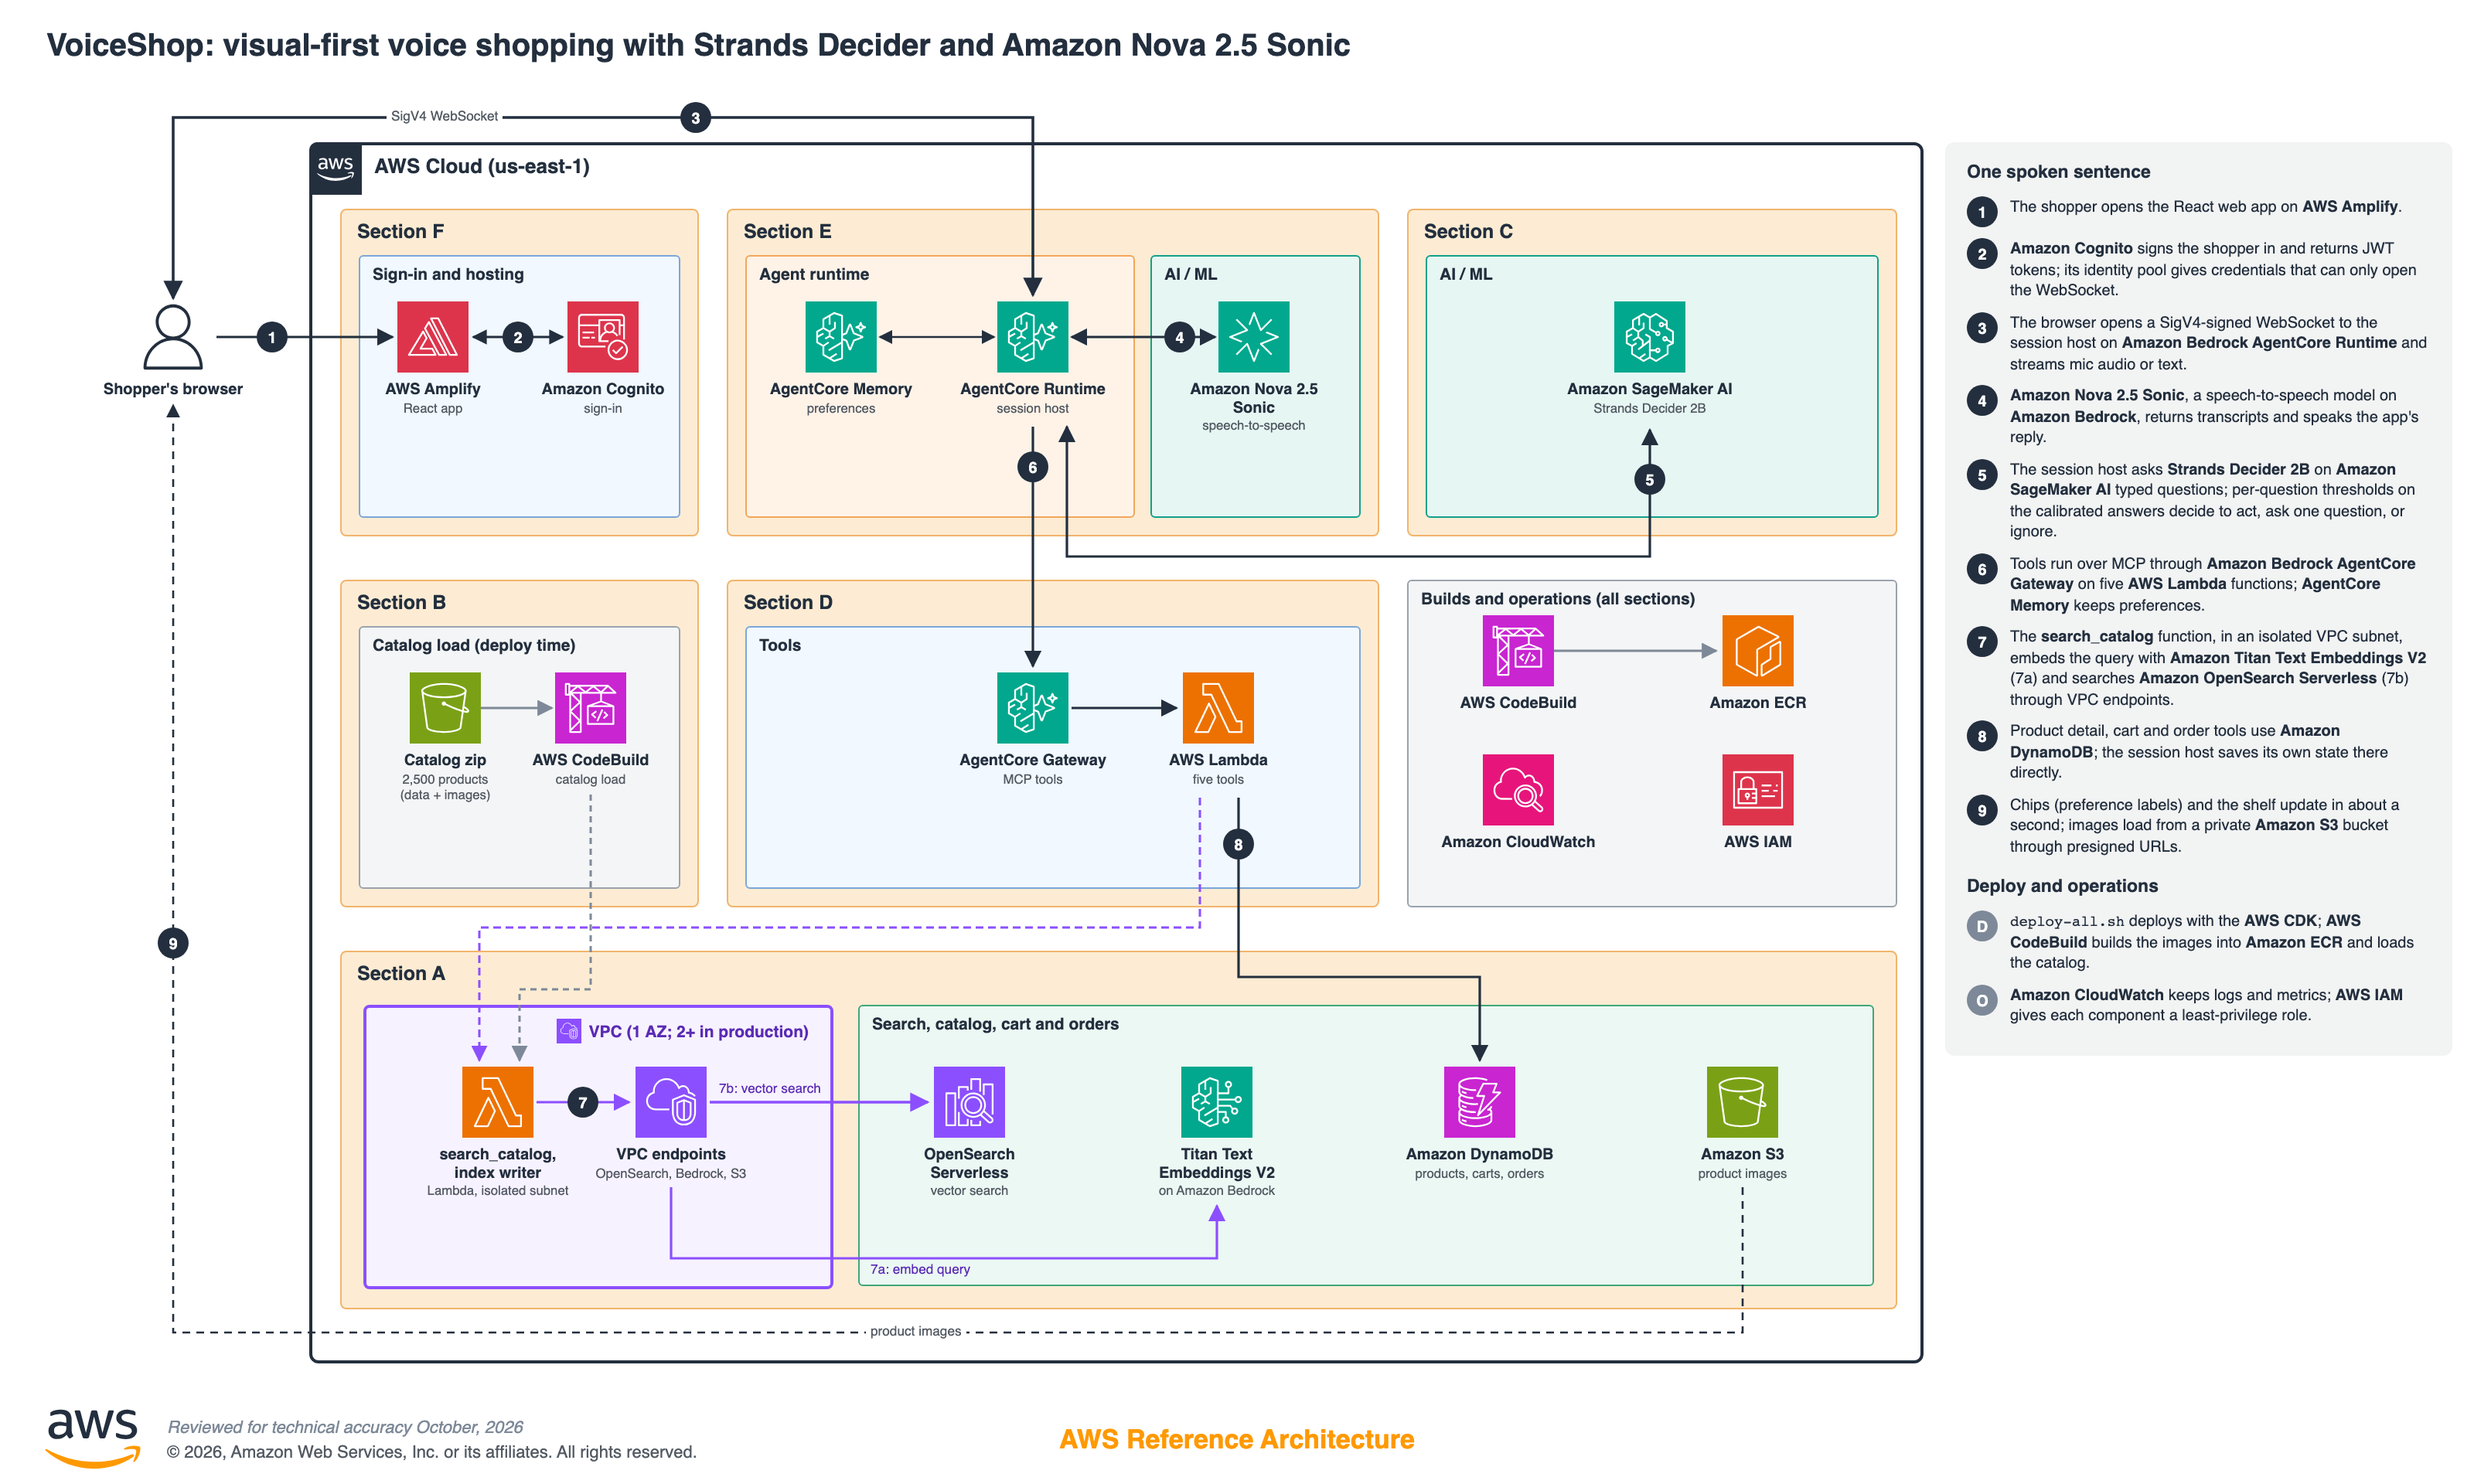
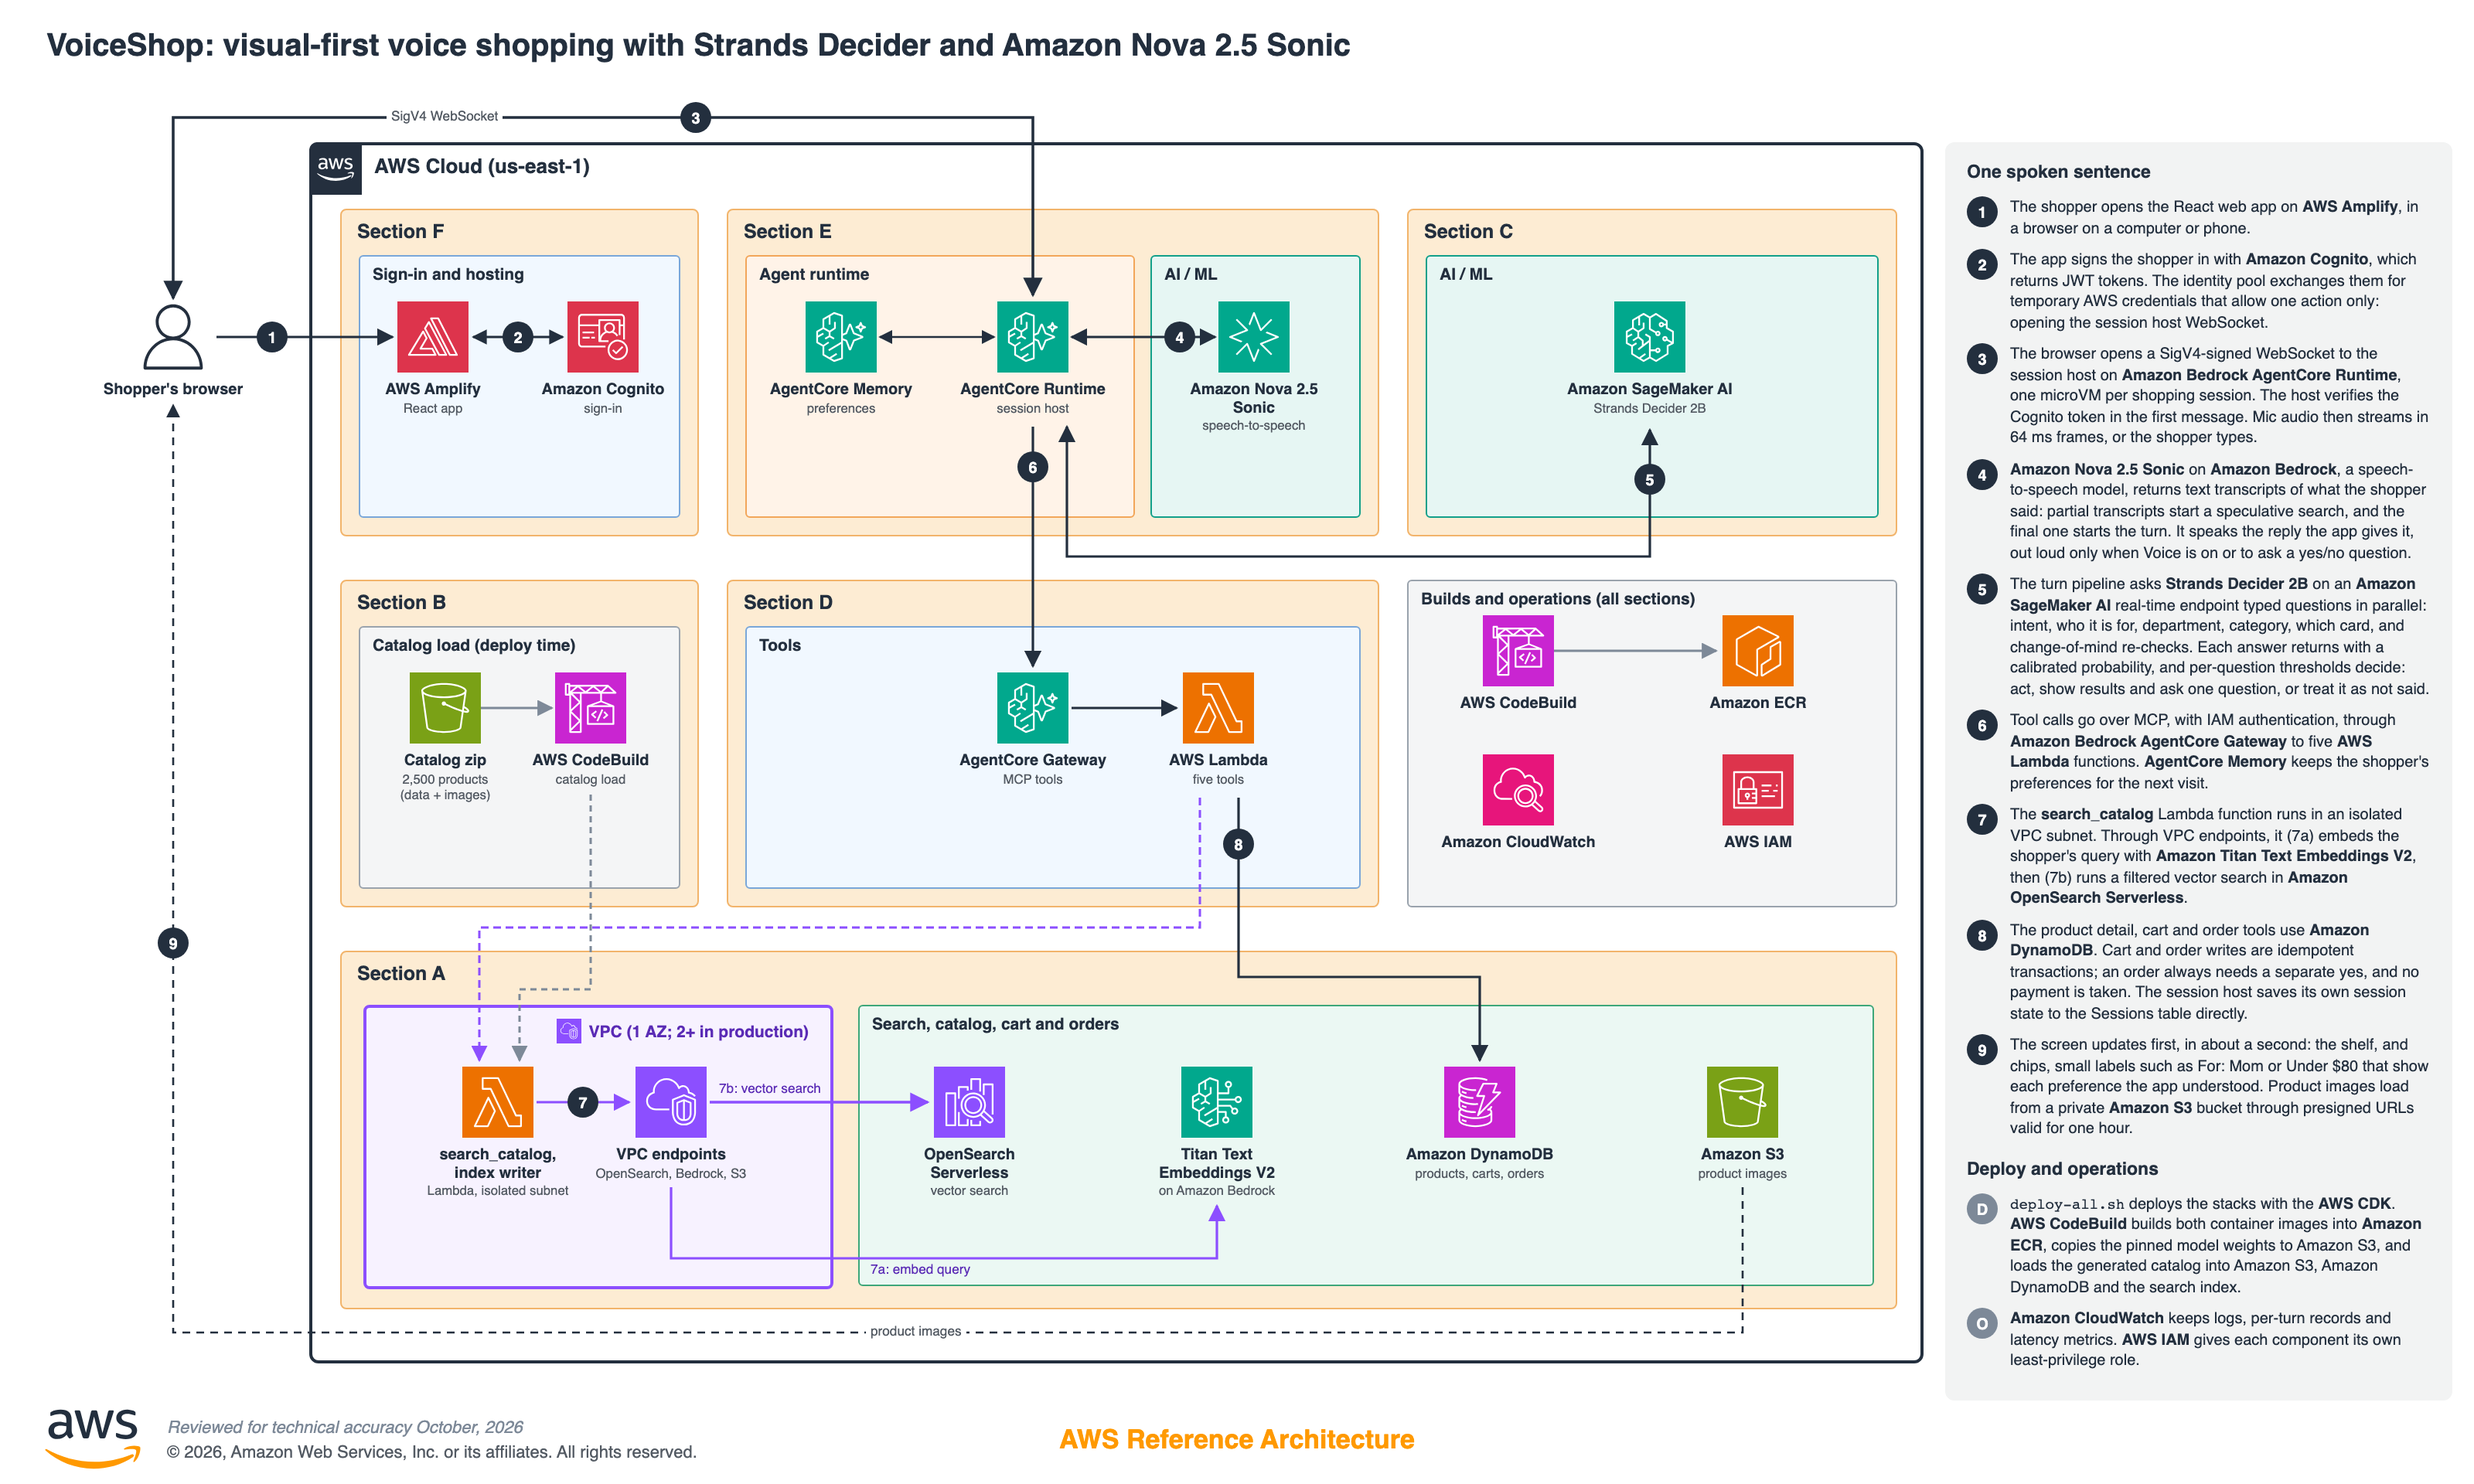
Architecture diagram: full step notes restored; drawing stays simple

Changed region(s): [[0.7812, 0.1562, 1.0, 0.9375]]

diff --git a/assets/architecture-diagram-source.html b/assets/architecture-diagram-source.html
@@ -155,18 +155,18 @@
 
   <div class="notes">
     <h3>One spoken sentence</h3>
-    <div class="row"><div class="b">1</div><div class="x">The shopper opens the React web app on <b>AWS Amplify</b>.</div></div>
-    <div class="row"><div class="b">2</div><div class="x"><b>Amazon Cognito</b> signs the shopper in and returns JWT tokens; its identity pool gives credentials that can only open the WebSocket.</div></div>
-    <div class="row"><div class="b">3</div><div class="x">The browser opens a SigV4-signed WebSocket to the session host on <b>Amazon Bedrock AgentCore Runtime</b> and streams mic audio or text.</div></div>
-    <div class="row"><div class="b">4</div><div class="x"><b>Amazon Nova 2.5 Sonic</b>, a speech-to-speech model on <b>Amazon Bedrock</b>, returns transcripts and speaks the app&#39;s reply.</div></div>
-    <div class="row"><div class="b">5</div><div class="x">The session host asks <b>Strands Decider 2B</b> on <b>Amazon SageMaker AI</b> typed questions; per-question thresholds on the calibrated answers decide to act, ask one question, or ignore.</div></div>
-    <div class="row"><div class="b">6</div><div class="x">Tools run over MCP through <b>Amazon Bedrock AgentCore Gateway</b> on five <b>AWS Lambda</b> functions; <b>AgentCore Memory</b> keeps preferences.</div></div>
-    <div class="row"><div class="b">7</div><div class="x">The <b>search_catalog</b> function, in an isolated VPC subnet, embeds the query with <b>Amazon Titan Text Embeddings V2</b> (7a) and searches <b>Amazon OpenSearch Serverless</b> (7b) through VPC endpoints.</div></div>
-    <div class="row"><div class="b">8</div><div class="x">Product detail, cart and order tools use <b>Amazon DynamoDB</b>; the session host saves its own state there directly.</div></div>
-    <div class="row"><div class="b">9</div><div class="x">Chips (preference labels) and the shelf update in about a second; images load from a private <b>Amazon S3</b> bucket through presigned URLs.</div></div>
+    <div class="row"><div class="b">1</div><div class="x">The shopper opens the React web app on <b>AWS Amplify</b>, in a browser on a computer or phone.</div></div>
+    <div class="row"><div class="b">2</div><div class="x">The app signs the shopper in with <b>Amazon Cognito</b>, which returns JWT tokens. The identity pool exchanges them for temporary AWS credentials that allow one action only: opening the session host WebSocket.</div></div>
+    <div class="row"><div class="b">3</div><div class="x">The browser opens a SigV4-signed WebSocket to the session host on <b>Amazon Bedrock AgentCore Runtime</b>, one microVM per shopping session. The host verifies the Cognito token in the first message. Mic audio then streams in 64 ms frames, or the shopper types.</div></div>
+    <div class="row"><div class="b">4</div><div class="x"><b>Amazon Nova 2.5 Sonic</b> on <b>Amazon Bedrock</b>, a speech-to-speech model, returns text transcripts of what the shopper said: partial transcripts start a speculative search, and the final one starts the turn. It speaks the reply the app gives it, out loud only when Voice is on or to ask a yes/no question.</div></div>
+    <div class="row"><div class="b">5</div><div class="x">The turn pipeline asks <b>Strands Decider 2B</b> on an <b>Amazon SageMaker AI</b> real-time endpoint typed questions in parallel: intent, who it is for, department, category, which card, and change-of-mind re-checks. Each answer returns with a calibrated probability, and per-question thresholds decide: act, show results and ask one question, or treat it as not said.</div></div>
+    <div class="row"><div class="b">6</div><div class="x">Tool calls go over MCP, with IAM authentication, through <b>Amazon Bedrock AgentCore Gateway</b> to five <b>AWS Lambda</b> functions. <b>AgentCore Memory</b> keeps the shopper&#39;s preferences for the next visit.</div></div>
+    <div class="row"><div class="b">7</div><div class="x">The <b>search_catalog</b> Lambda function runs in an isolated VPC subnet. Through VPC endpoints, it (7a) embeds the shopper&#39;s query with <b>Amazon Titan Text Embeddings V2</b>, then (7b) runs a filtered vector search in <b>Amazon OpenSearch Serverless</b>.</div></div>
+    <div class="row"><div class="b">8</div><div class="x">The product detail, cart and order tools use <b>Amazon DynamoDB</b>. Cart and order writes are idempotent transactions; an order always needs a separate yes, and no payment is taken. The session host saves its own session state to the Sessions table directly.</div></div>
+    <div class="row"><div class="b">9</div><div class="x">The screen updates first, in about a second: the shelf, and chips, small labels such as For: Mom or Under $80 that show each preference the app understood. Product images load from a private <b>Amazon S3</b> bucket through presigned URLs valid for one hour.</div></div>
     <h3 style="margin-top:12px;">Deploy and operations</h3>
-    <div class="row"><div class="b dep">D</div><div class="x"><code>deploy-all.sh</code> deploys with the <b>AWS CDK</b>; <b>AWS CodeBuild</b> builds the images into <b>Amazon ECR</b> and loads the catalog.</div></div>
-    <div class="row"><div class="b dep">O</div><div class="x"><b>Amazon CloudWatch</b> keeps logs and metrics; <b>AWS IAM</b> gives each component a least-privilege role.</div></div>
+    <div class="row"><div class="b dep">D</div><div class="x"><code>deploy-all.sh</code> deploys the stacks with the <b>AWS CDK</b>. <b>AWS CodeBuild</b> builds both container images into <b>Amazon ECR</b>, copies the pinned model weights to Amazon S3, and loads the generated catalog into Amazon S3, Amazon DynamoDB and the search index.</div></div>
+    <div class="row"><div class="b dep">O</div><div class="x"><b>Amazon CloudWatch</b> keeps logs, per-turn records and latency metrics. <b>AWS IAM</b> gives each component its own least-privilege role.</div></div>
   </div>
 
   <div class="foot">
